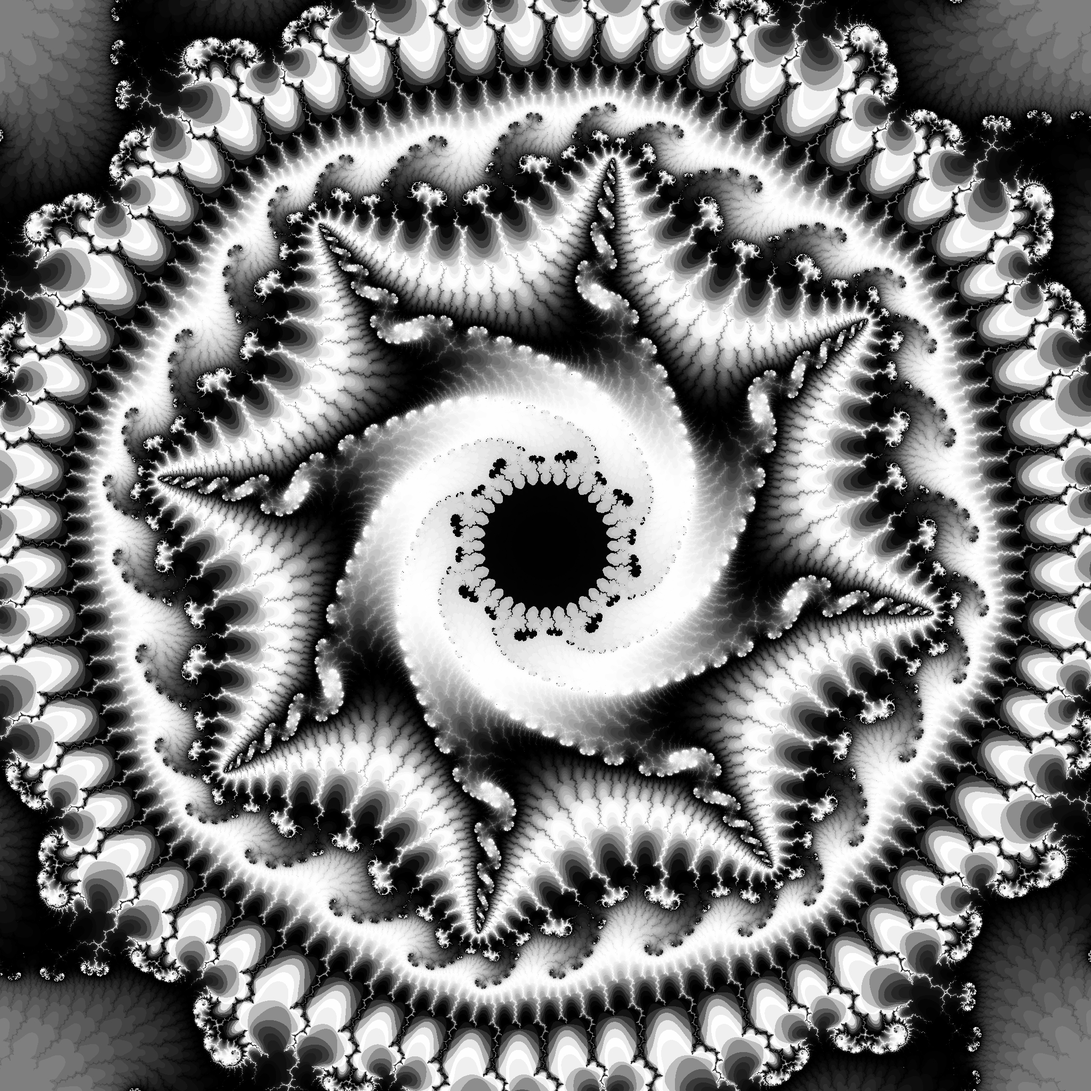
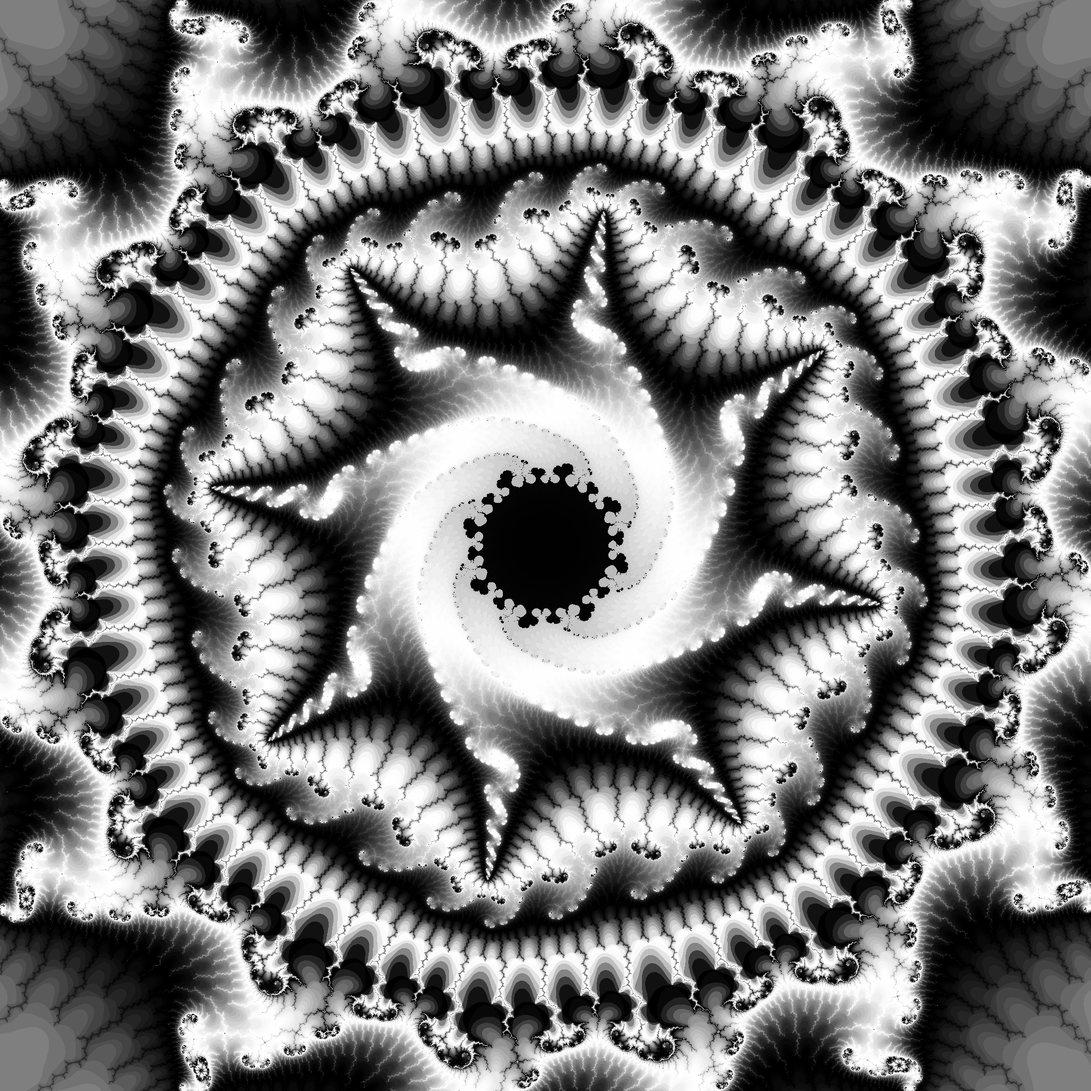
Change the range of (and redraw) one image.

diff --git a/example/mandelbrot/mandelbrot.cpp b/example/mandelbrot/mandelbrot.cpp
@@ -728,15 +728,15 @@ int main()
     // This is a deep zoom image.
     // Note: Use 79 or more decimal digits for this iteration.
 
-    using local_numeric_type      = boost::multiprecision::number<boost::multiprecision::BOOST_MULTIPRECISION_MANDELBROT_NUMBER_BACKEND_NAME<79>, boost::multiprecision::et_off>;
-    using mandelbrot_config_type  = boost::multiprecision::mandelbrot::mandelbrot_config<local_numeric_type, 10000U, 2048U>;
+    using local_numeric_type      = boost::multiprecision::number<boost::multiprecision::BOOST_MULTIPRECISION_MANDELBROT_NUMBER_BACKEND_NAME<95>, boost::multiprecision::et_off>;
+    using mandelbrot_config_type  = boost::multiprecision::mandelbrot::mandelbrot_config<local_numeric_type, 15000U, 2048U>;
     using mandelbrot_numeric_type = mandelbrot_config_type::mandelbrot_config_numeric_type;
 
-    const mandelbrot_numeric_type delta_half("2.20E-55");
+    const mandelbrot_numeric_type delta_half("2.55E-55");
     const mandelbrot_numeric_type cx        ("-1.295189082147777457017064177185681926706566460884888469217456");
     const mandelbrot_numeric_type cy        ("0.440936982678320138880903678356262612113214627431396203682661");
 
-    static_assert(std::numeric_limits<mandelbrot_numeric_type>::digits10 >= 79,
+    static_assert(std::numeric_limits<mandelbrot_numeric_type>::digits10 >= 95,
                   "Error: Please use 79 or more decimal digits for BOOST_MULTIPRECISION_MANDELBROT_09_DEEP_DIVE_02.");
 
   #elif (BOOST_MULTIPRECISION_MANDELBROT_IMAGE_INDEX ==  BOOST_MULTIPRECISION_MANDELBROT_IMAGE_INDEX_10_ZOOM_WIKI_01)
